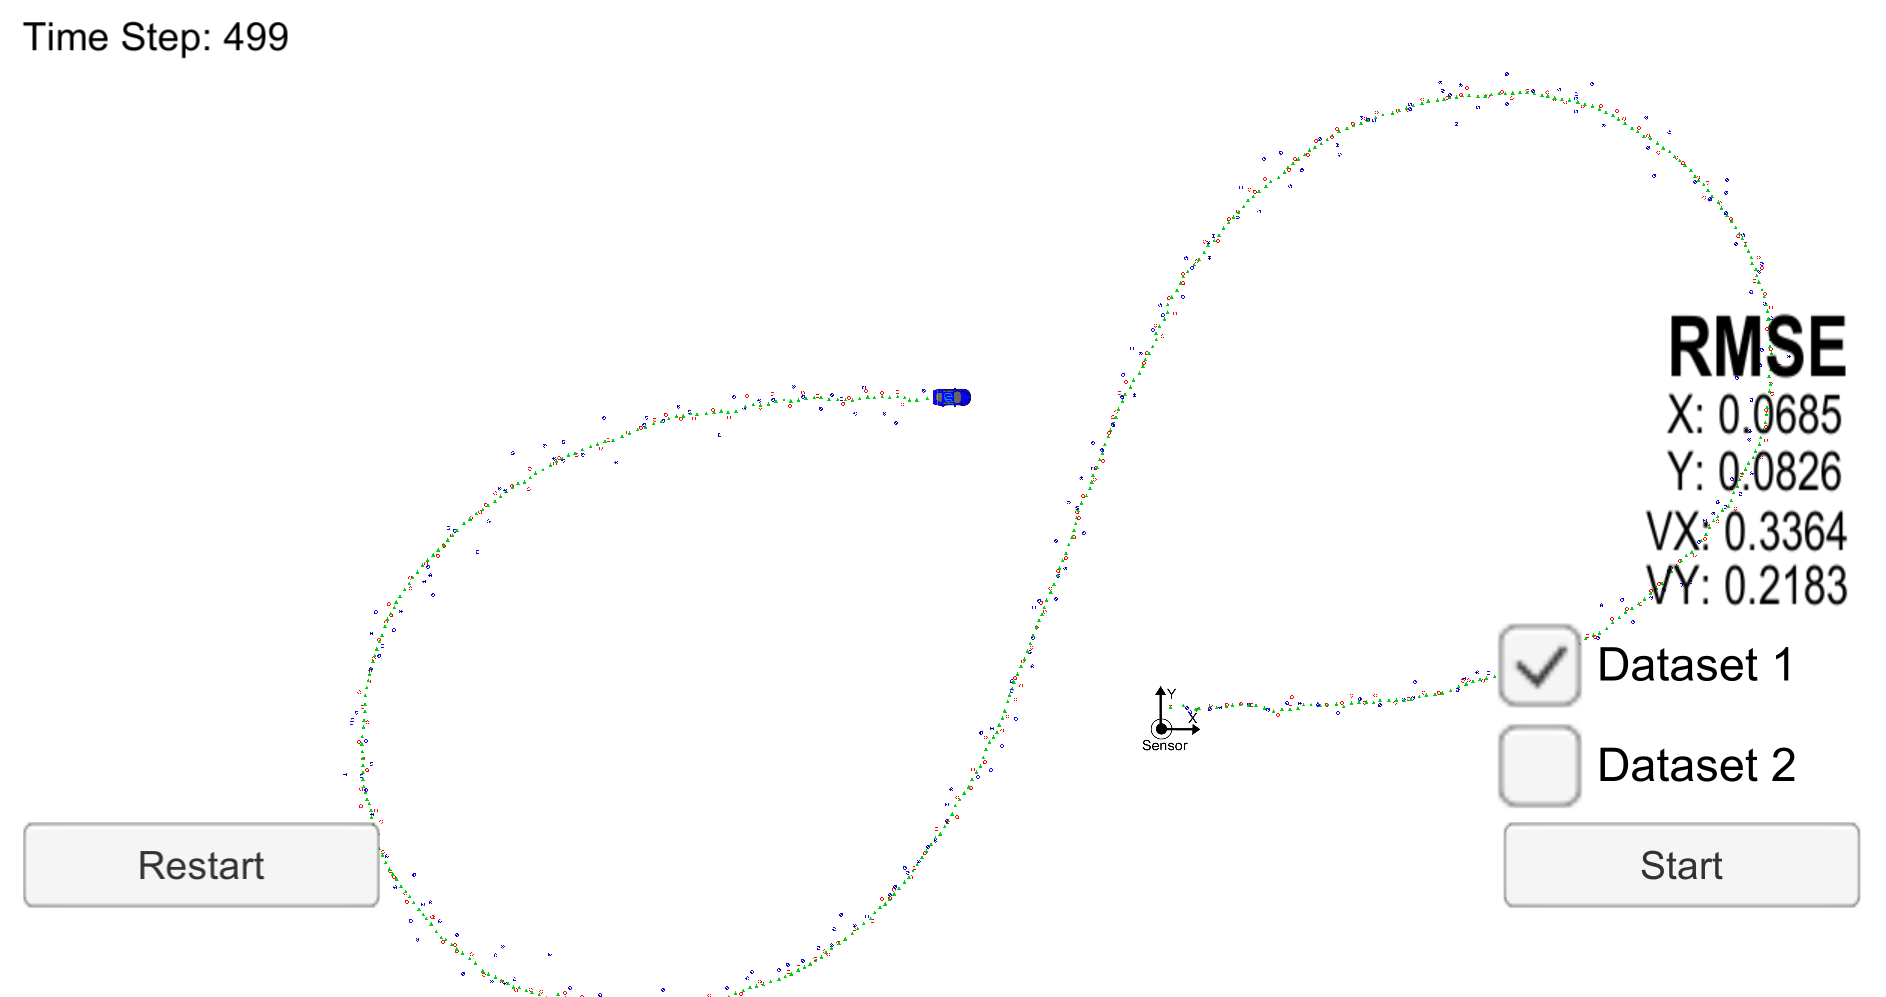
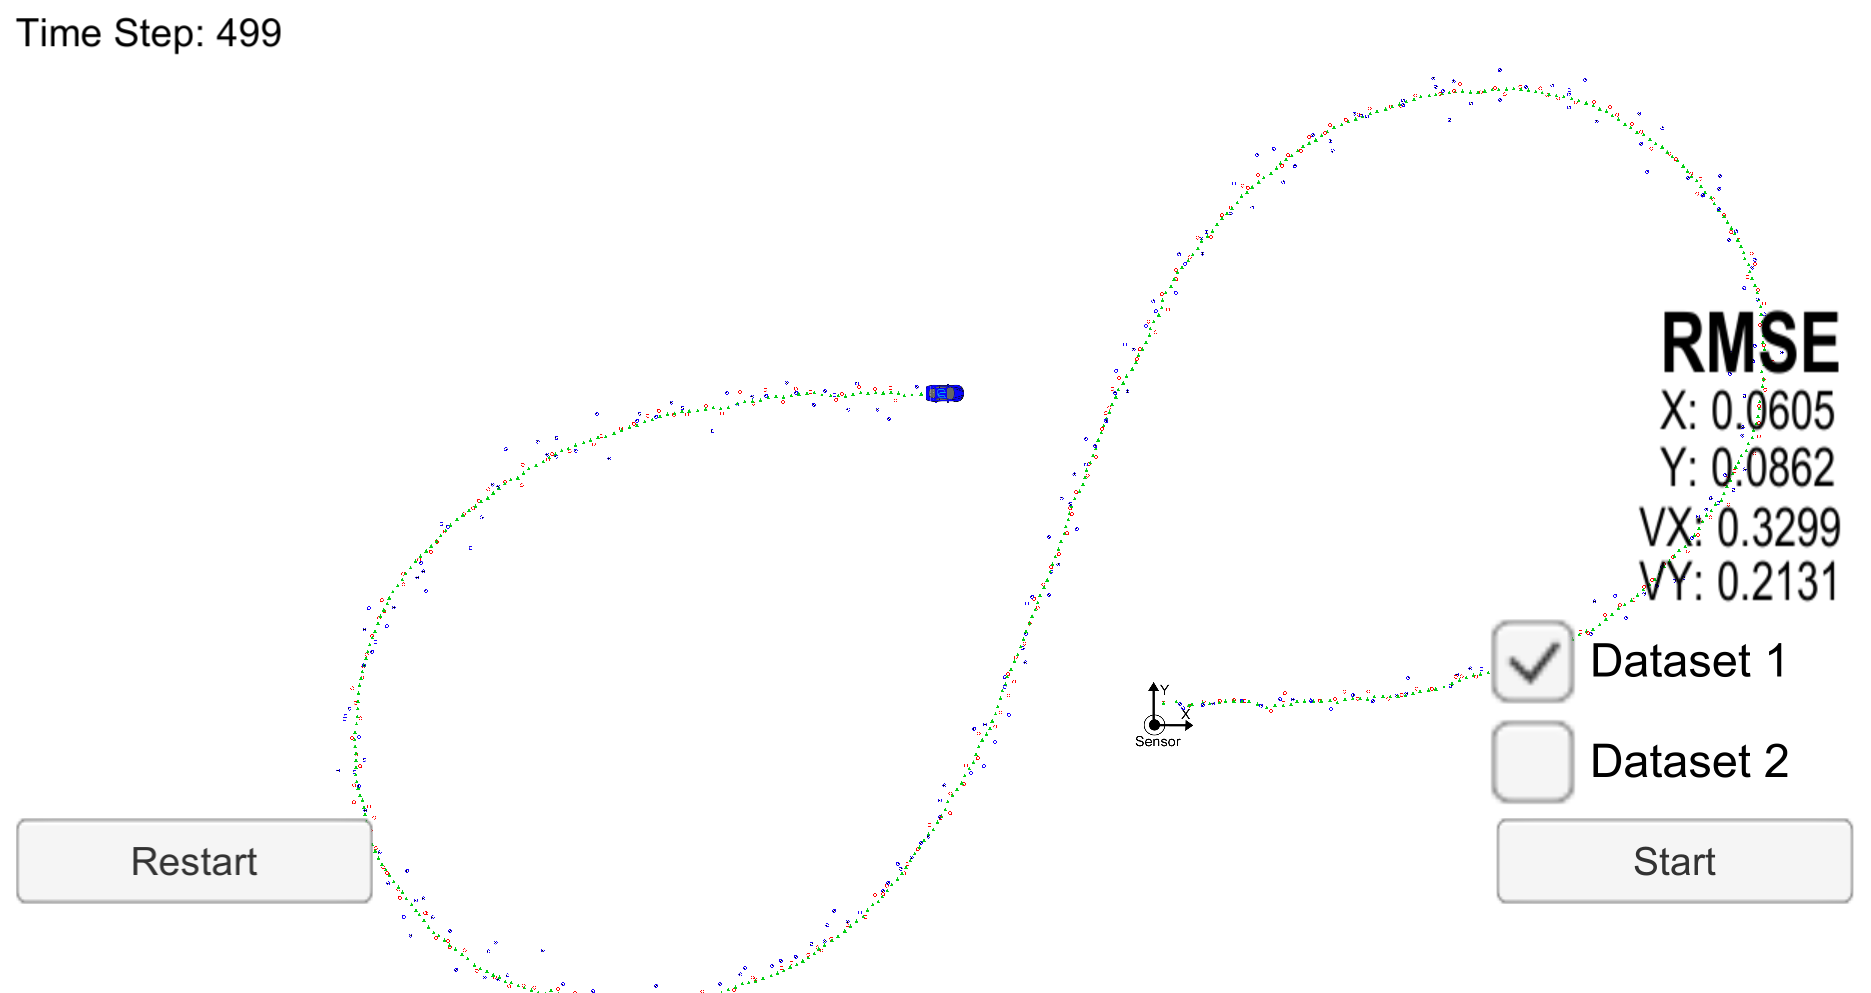
add accuracy results

diff --git a/README.md b/README.md
@@ -88,3 +88,18 @@ And here is the result after running the UKF with the Dataset 2:
 ![Simulator with Dataset 2](imgs/dataset_2.png)
 
 # [Rubric](https://review.udacity.com/#!/rubrics/783/view) points
+
+## Compiling
+
+### Your code should compile
+
+The code compiles without errors with `cmake` and `make` but only has been tested on Mac OS.
+
+## Accuracy
+
+### px, py, vx, vy output coordinates must have an RMSE <= [.09, .10, .40, .30] when using the file: "obj_pose-laser-radar-synthetic-input.txt", which is the same data file the simulator uses for Dataset 1."
+
+The EKF accuracy was:
+
+- Dataset 1 : RMSE <= [0.0605, 0.0862, 0.3299, 0.2131]
+- Dataset 2 : RMSE <= [0.0633, 0.0591, 0.3393, 0.2992]
